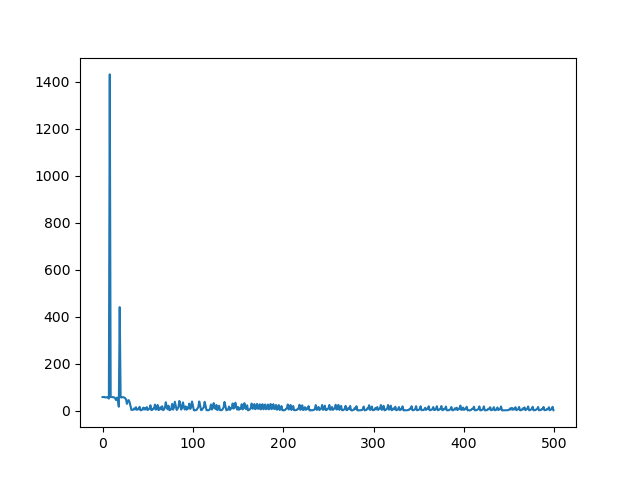
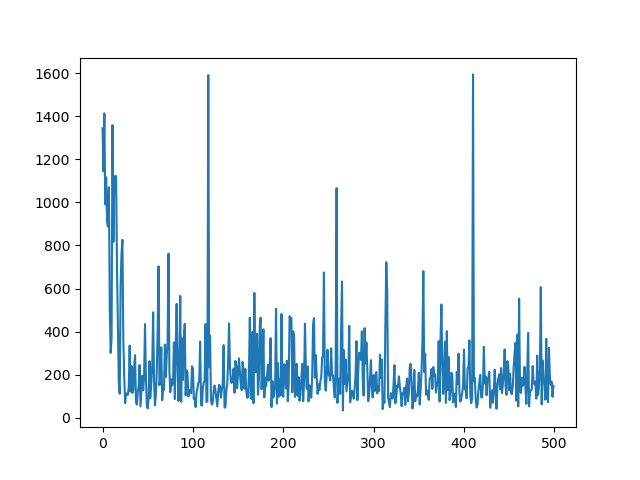
bug fix

diff --git a/final/preprocess/Autoencoder/main.py b/final/preprocess/Autoencoder/main.py
@@ -17,7 +17,7 @@ random.seed(seed)
 torch.backends.cudnn.benchmark = False
 torch.backends.cudnn.deterministic = True
 
-batch_size = 4
+batch_size = 1
 epoch = 500
 
 input_dim = int(sys.argv[1])
@@ -25,10 +25,10 @@ output_dim = int(sys.argv[2])
 print(f"in = {input_dim}, out = {output_dim}")
 device = torch.device("cuda:0" if torch.cuda.is_available() else "cpu")
 print(f"read_csv:{sys.argv[3]}")
-rX = pd.read_csv(sys.argv[3]).to_numpy()
+rX = pd.read_csv(sys.argv[3], header = None).to_numpy()
 rX = np.nan_to_num(rX, nan = 0, posinf = 999999, neginf = -999999)
 print(f"read_csv:{sys.argv[4]}")
-rY = pd.read_csv(sys.argv[4]).to_numpy()
+rY = pd.read_csv(sys.argv[4], header = None).to_numpy()
 
 print(rX.shape)
 print(rY.shape)
@@ -65,15 +65,17 @@ plt.plot(losses)
 plt.savefig(sys.argv[-1])
 
 X = torch.Tensor(rX).to(device)
+print(X.shape)
 Z, decode = encoder(X)
 print(f"final loss = {loss_fn(X, decode)}")
 Z = Z.detach().cpu().numpy()
+print(Z.shape)
 print("save csv", sys.argv[7])
 np.savetxt(sys.argv[7], Z, delimiter = ',')
 
-rX = pd.read_csv(sys.argv[5]).to_numpy()
+rX = pd.read_csv(sys.argv[5], header = None).to_numpy()
 rX = np.nan_to_num(rX, nan = 0, posinf = 999999, neginf = -999999)
-rY = pd.read_csv(sys.argv[6]).to_numpy()
+rY = pd.read_csv(sys.argv[6], header = None).to_numpy()
 
 X = torch.Tensor(rX).to(device)
 Z, decode = encoder(X)
@@ -81,3 +83,5 @@ print(f"final loss = {loss_fn(X, decode)}")
 Z = Z.detach().cpu().numpy()
 print("save csv", sys.argv[8])
 np.savetxt(sys.argv[8], Z, delimiter = ',')
+
+torch.save(encoder.state_dict(), f"AE_{output_dim}.t7")

diff --git a/final/preprocess/Autoencoder/Autoencoder.py b/final/preprocess/Autoencoder/Autoencoder.py
@@ -4,7 +4,7 @@ from torch import nn
 class encoder(nn.Module):
     def __init__(self, input_dim, output_dim):
         super().__init__()
-        """
+        
         self.net = nn.Sequential(
             nn.Linear(input_dim, 512),
             nn.ReLU(),
@@ -28,7 +28,7 @@ class encoder(nn.Module):
             nn.ReLU(),
             nn.Linear(2**7, output_dim)
         )
-
+        """
         self.flatten = nn.Flatten()
     def forward(self, x):
         return self.net(x)
@@ -36,6 +36,18 @@ class encoder(nn.Module):
 class decoder(nn.Module):
     def __init__(self, input_dim, output_dim):
         super().__init__()
+        self.net = nn.Sequential(
+            nn.Linear(input_dim, 64),
+            nn.ReLU(),
+            nn.Linear(64, 128),
+            nn.ReLU(),
+            nn.Linear(128, 256),
+            nn.ReLU(),
+            nn.Linear(256, 512),
+            nn.ReLU(),
+            nn.Linear(512, output_dim)
+        )
+        """
         self.net = nn.Sequential(
             nn.Linear(input_dim, 2**7),
             nn.ReLU(),
@@ -47,6 +59,7 @@ class decoder(nn.Module):
             nn.ReLU(),
             nn.Linear(2**10, output_dim),
         )
+        """
         self.flatten = nn.Flatten()
     def forward(self, x):
         return self.net(x)
